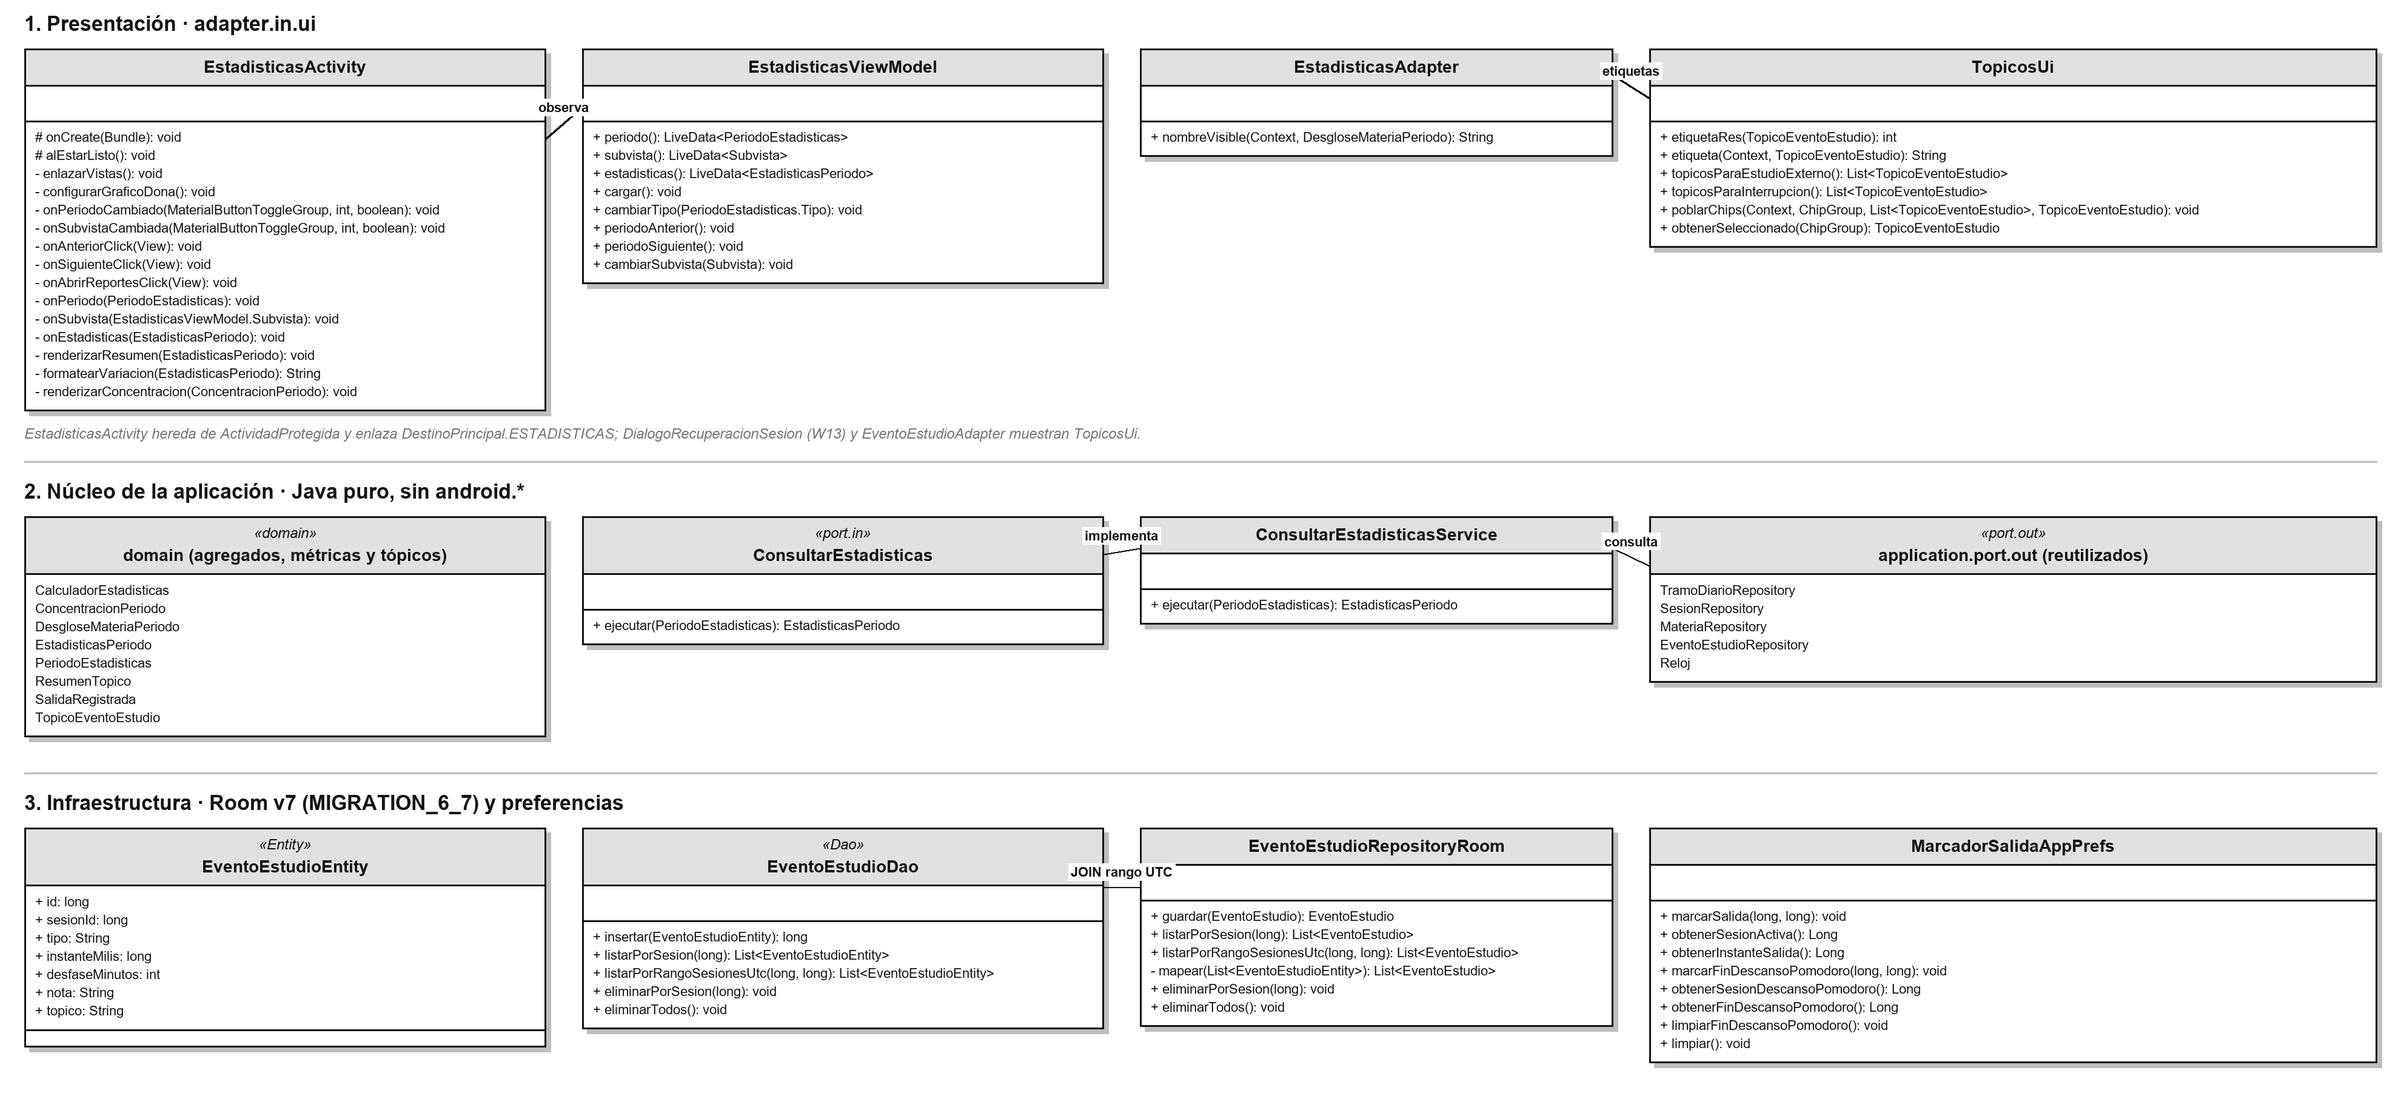
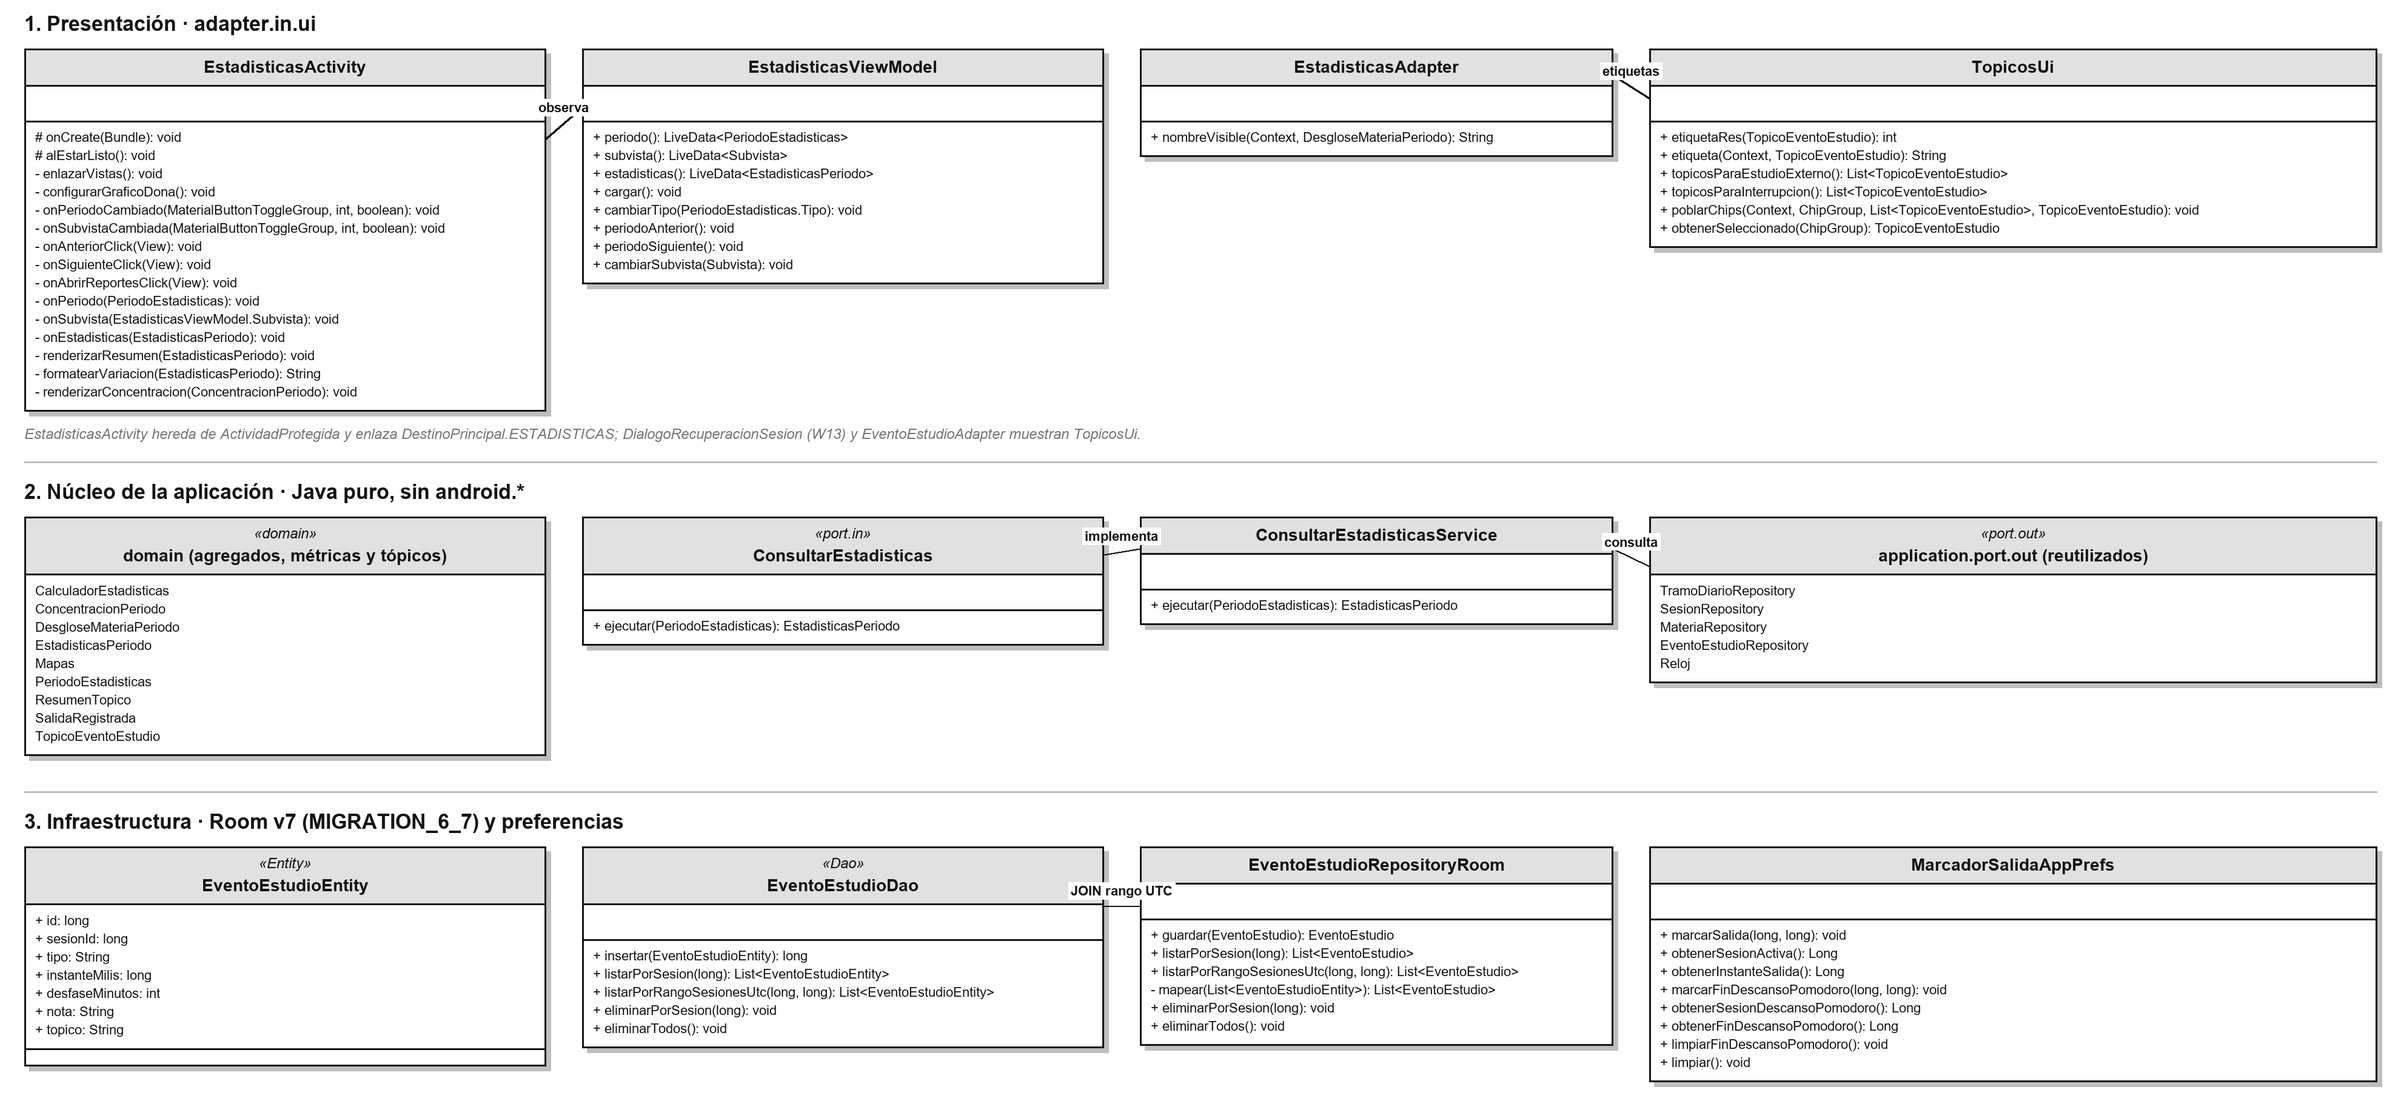
fix(RNF-15): leer mapas de acumuladores sin desempaquetar nulos y evitar listas nulas en estadísticas

Changed region(s): [[0.0, 0.0309, 0.9939, 0.957], [0.4659, 0.0309, 0.9939, 0.247]]

diff --git a/app/src/main/java/io/github/jhoel0521/studyplan/domain/service/CalculadorEstadisticas.java b/app/src/main/java/io/github/jhoel0521/studyplan/domain/service/CalculadorEstadisticas.java
@@ -69,7 +69,7 @@ public final class CalculadorEstadisticas {
                         noRealizadas++;
                         noRealizadasPorMateria.put(
                                 s.materiaId(),
-                                noRealizadasPorMateria.getOrDefault(s.materiaId(), 0) + 1);
+                                Mapas.entero(noRealizadasPorMateria, s.materiaId()) + 1);
                         break;
                     case REPROGRAMADA:
                         reprogramadas++;
@@ -82,7 +82,7 @@ public final class CalculadorEstadisticas {
                 if (s.estado().ocupaHorario() && s.tienePlan()) {
                     planificadosPorMateria.put(
                             s.materiaId(),
-                            planificadosPorMateria.getOrDefault(s.materiaId(), 0)
+                            Mapas.entero(planificadosPorMateria, s.materiaId())
                                     + Math.max(0, s.duracionPlanificadaMinutos()));
                 }
             }
@@ -146,9 +146,9 @@ public final class CalculadorEstadisticas {
 
         List<DesgloseMateriaPeriodo> filas = new ArrayList<>();
         for (Long id : ids) {
-            int minReal = realesPorMateria.getOrDefault(id, 0);
-            int minPlan = planificadosPorMateria.getOrDefault(id, 0);
-            int noReal = noRealizadasPorMateria.getOrDefault(id, 0);
+            int minReal = Mapas.entero(realesPorMateria, id);
+            int minPlan = Mapas.entero(planificadosPorMateria, id);
+            int noReal = Mapas.entero(noRealizadasPorMateria, id);
             if (minReal <= 0 && minPlan <= 0 && noReal <= 0) {
                 continue;
             }
@@ -219,7 +219,7 @@ public final class CalculadorEstadisticas {
                 if (minPlan > 0) {
                     planificadosPorMateria.put(
                             sesion.materiaId(),
-                            planificadosPorMateria.getOrDefault(sesion.materiaId(), 0) + minPlan);
+                            Mapas.entero(planificadosPorMateria, sesion.materiaId()) + minPlan);
                 }
             }
             if (sesion.codigoEstado() == CodigoEstadoSesion.NO_REALIZADA
@@ -227,7 +227,7 @@ public final class CalculadorEstadisticas {
                     && !sesion.fecha().esPosteriorA(fin)) {
                 noRealizadasPorMateria.put(
                         sesion.materiaId(),
-                        noRealizadasPorMateria.getOrDefault(sesion.materiaId(), 0) + 1);
+                        Mapas.entero(noRealizadasPorMateria, sesion.materiaId()) + 1);
             }
         }
     }
@@ -275,7 +275,7 @@ public final class CalculadorEstadisticas {
         }
         List<DesgloseMateriaPeriodo> resultado = new ArrayList<>();
         for (Long id : ids) {
-            int min = minutosPorMateria.getOrDefault(id, 0);
+            int min = Mapas.entero(minutosPorMateria, id);
             if (min <= 0) {
                 continue;
             }
@@ -293,8 +293,8 @@ public final class CalculadorEstadisticas {
                     archivada,
                     min,
                     pct,
-                    planificadosPorMateria.getOrDefault(id, 0),
-                    noRealizadasPorMateria.getOrDefault(id, 0)));
+                    Mapas.entero(planificadosPorMateria, id),
+                    Mapas.entero(noRealizadasPorMateria, id)));
         }
         resultado.sort(Comparator.comparingInt(DesgloseMateriaPeriodo::minutosReales).reversed()
                 .thenComparing(DesgloseMateriaPeriodo::nombreMateria));
@@ -328,9 +328,7 @@ public final class CalculadorEstadisticas {
                 if (s.codigoEstado() == CodigoEstadoSesion.COMPLETADA_TARDIA) {
                     continue;
                 }
-                List<EventoEstudio> eventos = (s.id() != null && eventosPorSesion != null)
-                        ? eventosPorSesion.getOrDefault(s.id(), Collections.emptyList())
-                        : Collections.emptyList();
+                List<EventoEstudio> eventos = eventosDe(eventosPorSesion, s.id());
                 if (eventos.isEmpty()) {
                     continue;
                 }
@@ -351,23 +349,23 @@ public final class CalculadorEstadisticas {
                         analisis.estudioExternoPorTopicoMs().entrySet()) {
                     estudioExternoMs.put(
                             e.getKey(),
-                            estudioExternoMs.getOrDefault(e.getKey(), 0L) + e.getValue());
+                            Mapas.largo(estudioExternoMs, e.getKey()) + e.getValue());
                     estudioExternoConteo.put(
                             e.getKey(),
-                            estudioExternoConteo.getOrDefault(e.getKey(), 0) + 1);
+                            Mapas.entero(estudioExternoConteo, e.getKey()) + 1);
                 }
 
                 for (Map.Entry<TopicoEventoEstudio, Long> e :
                         analisis.interrupcionesPorTopicoMs().entrySet()) {
                     interrupcionesMs.put(
                             e.getKey(),
-                            interrupcionesMs.getOrDefault(e.getKey(), 0L) + e.getValue());
+                            Mapas.largo(interrupcionesMs, e.getKey()) + e.getValue());
                 }
                 for (Map.Entry<TopicoEventoEstudio, Integer> e :
                         analisis.interrupcionesPorTopicoConteo().entrySet()) {
                     interrupcionesConteo.put(
                             e.getKey(),
-                            interrupcionesConteo.getOrDefault(e.getKey(), 0) + e.getValue());
+                            Mapas.entero(interrupcionesConteo, e.getKey()) + e.getValue());
                 }
 
                 if (s.tienePlan() && s.duracionPlanificadaMinutos() > 0) {
@@ -407,8 +405,7 @@ public final class CalculadorEstadisticas {
             totalExternoMs += ms;
         }
         int estudioFueraMin = (int) (totalExternoMs / 60_000L);
-        int sinClasificarMin = (int) (estudioExternoMs.getOrDefault(
-                TopicoEventoEstudio.SIN_CLASIFICAR, 0L) / 60_000L);
+        int sinClasificarMin = (int) (Mapas.largo(estudioExternoMs, TopicoEventoEstudio.SIN_CLASIFICAR) / 60_000L);
 
         List<ResumenTopico> listaExterno = convertirTopicos(estudioExternoMs, estudioExternoConteo);
         List<ResumenTopico> listaInterrupciones =
@@ -432,7 +429,7 @@ public final class CalculadorEstadisticas {
             Map<TopicoEventoEstudio, Integer> conteos) {
         List<ResumenTopico> lista = new ArrayList<>();
         for (Map.Entry<TopicoEventoEstudio, Long> e : duracionesMs.entrySet()) {
-            int cant = conteos.getOrDefault(e.getKey(), 0);
+            int cant = Mapas.entero(conteos, e.getKey());
             int min = (int) (e.getValue() / 60_000L);
             if (cant > 0 || min > 0) {
                 lista.add(new ResumenTopico(e.getKey(), cant, min));
@@ -442,5 +439,14 @@ public final class CalculadorEstadisticas {
                 .thenComparingInt(ResumenTopico::cantidad).reversed()
                 .thenComparing(r -> r.topico().name()));
         return lista;
+    }
+
+    /** Eventos de la sesión; lista vacía si no hay mapa, no hay id o la sesión no tiene eventos. */
+    private static List<EventoEstudio> eventosDe(Map<Long, List<EventoEstudio>> eventosPorSesion, Long sesionId) {
+        if (eventosPorSesion == null || sesionId == null) {
+            return Collections.emptyList();
+        }
+        List<EventoEstudio> eventos = eventosPorSesion.get(sesionId);
+        return eventos == null ? Collections.emptyList() : eventos;
     }
 }

diff --git a/app/src/main/java/io/github/jhoel0521/studyplan/domain/service/Mapas.java b/app/src/main/java/io/github/jhoel0521/studyplan/domain/service/Mapas.java
@@ -1,0 +1,29 @@
+package io.github.jhoel0521.studyplan.domain.service;
+
+import java.util.Map;
+
+/**
+ * Lecturas de mapas de acumuladores sin desempaquetar un valor que podría ser nulo (RNF-15). Los mapas de estadísticas
+ * (por materia, por tópico) guardan {@code Integer} y {@code Long}; {@link Map#getOrDefault} devuelve el objeto y
+ * desempaquetarlo directamente avisa de un posible {@code NullPointerException} aunque nunca se guarden nulos.
+ *
+ * <p>Usado por {@link CalculadorEstadisticas} (HU-29 a HU-32 y HU-45), {@link CalculadorTiempoReal} (HU-39) y por
+ * los servicios que acumulan minutos por materia (HU-07, HU-26 y HU-27).
+ */
+public final class Mapas {
+
+    private Mapas() {
+    }
+
+    /** Valor entero asociado a la clave, o 0 si no hay entrada o el valor es nulo. */
+    public static <K> int entero(Map<K, Integer> mapa, K clave) {
+        Integer valor = mapa.get(clave);
+        return valor == null ? 0 : valor;
+    }
+
+    /** Valor largo asociado a la clave, o 0 si no hay entrada o el valor es nulo. */
+    public static <K> long largo(Map<K, Long> mapa, K clave) {
+        Long valor = mapa.get(clave);
+        return valor == null ? 0L : valor;
+    }
+}

diff --git a/app/src/main/java/io/github/jhoel0521/studyplan/domain/service/CalculadorTiempoReal.java b/app/src/main/java/io/github/jhoel0521/studyplan/domain/service/CalculadorTiempoReal.java
@@ -283,7 +283,7 @@ public final class CalculadorTiempoReal {
                         long dur = t - salidaAbiertaMs;
                         TopicoEventoEstudio top = e.topico().orElse(TopicoEventoEstudio.SIN_CLASIFICAR);
                         estudioExternoPorTopicoMs.put(
-                                top, estudioExternoPorTopicoMs.getOrDefault(top, 0L) + dur);
+                                top, Mapas.largo(estudioExternoPorTopicoMs, top) + dur);
                         huboEstudioAppCerradaEnSalida = true;
                     }
                     break;
@@ -363,8 +363,8 @@ public final class CalculadorTiempoReal {
             Map<TopicoEventoEstudio, Integer> conteos,
             TopicoEventoEstudio topico,
             long duracionMs) {
-        duraciones.put(topico, duraciones.getOrDefault(topico, 0L) + duracionMs);
-        conteos.put(topico, conteos.getOrDefault(topico, 0) + 1);
+        duraciones.put(topico, Mapas.largo(duraciones, topico) + duracionMs);
+        conteos.put(topico, Mapas.entero(conteos, topico) + 1);
     }
 
     /** Resultado agregado del análisis cronológico de eventos de una sesión ({@code HU-45}). */

diff --git a/app/src/main/java/io/github/jhoel0521/studyplan/application/service/metas/ConsultarProgresoMetasService.java b/app/src/main/java/io/github/jhoel0521/studyplan/application/service/metas/ConsultarProgresoMetasService.java
@@ -22,6 +22,7 @@ import io.github.jhoel0521.studyplan.domain.entity.MetaSemanal;
 import io.github.jhoel0521.studyplan.domain.entity.Perfil;
 import io.github.jhoel0521.studyplan.domain.readmodel.ProgresoMeta;
 import io.github.jhoel0521.studyplan.domain.result.Resultado;
+import io.github.jhoel0521.studyplan.domain.service.Mapas;
 
 /**
  * Implementa {@link ConsultarProgresoMetas}: calcula progreso de la semana actual (creando el
@@ -107,7 +108,7 @@ public final class ConsultarProgresoMetasService implements ConsultarProgresoMet
                 Map<Long, Integer> minutosPorMateria = tramos.sumarPorMateriaEnRango(cursor, finSemana);
                 for (MetaSemanal mm : metasMaterias) {
                     long mId = mm.materiaId();
-                    int minMateria = minutosPorMateria.getOrDefault(mId, 0);
+                    int minMateria = Mapas.entero(minutosPorMateria, mId);
                     String nombre = nombresMateria.getOrDefault(mId, "");
                     resultado.add(CalculadorProgresoMetas.calcularProgreso(
                             cursor, mId, nombre, minMateria, mm.horasObjetivo(), false));

diff --git a/app/src/test/java/io/github/jhoel0521/studyplan/domain/service/MapasTest.java b/app/src/test/java/io/github/jhoel0521/studyplan/domain/service/MapasTest.java
@@ -1,0 +1,36 @@
+package io.github.jhoel0521.studyplan.domain.service;
+
+import static org.junit.Assert.assertEquals;
+
+import java.util.HashMap;
+import java.util.Map;
+
+import org.junit.Test;
+
+/**
+ * Pruebas de las lecturas de mapas que no desempaquetan nulos (RNF-15; usadas por HU-29 a HU-32, HU-39 y HU-45).
+ */
+public class MapasTest {
+
+    @Test
+    public void enteroDevuelveElValorOCeroSiFaltaOEsNulo() {
+        Map<String, Integer> mapa = new HashMap<>();
+        mapa.put("a", 7);
+        mapa.put("nulo", null);
+
+        assertEquals(7, Mapas.entero(mapa, "a"));
+        assertEquals(0, Mapas.entero(mapa, "falta"));
+        assertEquals(0, Mapas.entero(mapa, "nulo"));
+    }
+
+    @Test
+    public void largoDevuelveElValorOCeroSiFaltaOEsNulo() {
+        Map<Long, Long> mapa = new HashMap<>();
+        mapa.put(1L, 90_000L);
+        mapa.put(2L, null);
+
+        assertEquals(90_000L, Mapas.largo(mapa, 1L));
+        assertEquals(0L, Mapas.largo(mapa, 3L));
+        assertEquals(0L, Mapas.largo(mapa, 2L));
+    }
+}

diff --git a/app/src/main/java/io/github/jhoel0521/studyplan/application/service/materias/ListarMateriasService.java b/app/src/main/java/io/github/jhoel0521/studyplan/application/service/materias/ListarMateriasService.java
@@ -22,6 +22,7 @@ import io.github.jhoel0521.studyplan.domain.entity.MetaSemanal;
 import io.github.jhoel0521.studyplan.domain.readmodel.ProgresoMeta;
 import io.github.jhoel0521.studyplan.domain.result.Resultado;
 import io.github.jhoel0521.studyplan.domain.readmodel.ResumenMateria;
+import io.github.jhoel0521.studyplan.domain.service.Mapas;
 
 /**
  * Implementa {@link ListarMaterias}: orden alfabético en español, dejando al final la materia
@@ -103,7 +104,7 @@ public final class ListarMateriasService implements ListarMaterias {
         if (objetivo == null) {
             return null;
         }
-        int minutos = minutosSemanaPorMateria.getOrDefault(materia.id(), 0);
+        int minutos = Mapas.entero(minutosSemanaPorMateria, materia.id());
         return CalculadorProgresoMetas.calcularProgreso(
                 lunes, materia.id(), materia.nombre(), minutos, objetivo, false);
     }

diff --git a/docs/build/diagramas_clases.py b/docs/build/diagramas_clases.py
@@ -122,7 +122,7 @@ PERSISTENCIA_METAS = ["MetaSemanalDao", "MetaSemanalEntity", "MetaSemanalReposit
 PRESENTACION_ESTADISTICAS = ["EstadisticasActivity", "EstadisticasAdapter", "EstadisticasViewModel", "TopicosUi"]
 ENTRADA_ESTADISTICAS = ["ConsultarEstadisticas"]
 SERVICIOS_ESTADISTICAS = ["ConsultarEstadisticasService"]
-DOMINIO_ESTADISTICAS = ["CalculadorEstadisticas", "ConcentracionPeriodo", "DesgloseMateriaPeriodo", "EstadisticasPeriodo", "PeriodoEstadisticas", "ResumenTopico", "SalidaRegistrada", "TopicoEventoEstudio"]
+DOMINIO_ESTADISTICAS = ["CalculadorEstadisticas", "ConcentracionPeriodo", "DesgloseMateriaPeriodo", "EstadisticasPeriodo", "Mapas", "PeriodoEstadisticas", "ResumenTopico", "SalidaRegistrada", "TopicoEventoEstudio"]
 
 PRESENTACION_REPORTES = ["ReportesActivity", "ReportesAdapter", "ReportesViewModel"]
 ENTRADA_REPORTES = ["GenerarReporteEstudio"]

diff --git a/docs/build/comparar_pruebas.py b/docs/build/comparar_pruebas.py
@@ -19,7 +19,7 @@ RAIZ = Path(__file__).resolve().parents[2]
 RESULTADOS = RAIZ / "app" / "build" / "test-results" / "testDebugUnitTest"
 LINEA_BASE = Path(__file__).resolve().parent / "linea_base_pruebas.txt"
 # Clases de prueba que el propio change añade (no existen en la línea base y no cuentan como diferencia).
-AGREGADAS_POR_EL_CHANGE = {"EstructuraPaquetesTest"}
+AGREGADAS_POR_EL_CHANGE = {"EstructuraPaquetesTest", "MapasTest"}
 
 
 def pruebas_actuales():

diff --git a/docs/auditoria-ia/bitacora.md b/docs/auditoria-ia/bitacora.md
@@ -483,5 +483,7 @@ Triaje: **corregir** el comentario suelto, la conversión redundante, el `Locale
 
 **Citas y referencias para el autor (tarea 6.3).** La IA no las corrigió porque las referencias las decide el autor y no se inventan. `revisar.py` informa tres inconsistencias: (1) la cita «ISO (2023)» de `03-requisitos-y-analisis-del-sistema.md` (línea 508) no tiene su entrada en `90-referencias.md`; (2) la referencia «Android (s.f.)» (`90-referencias.md`, línea 7) no se cita en ningún capítulo; (3) la referencia «Google (s.f.)» (`90-referencias.md`, línea 19) no se cita en ningún capítulo. Cada una se resuelve añadiendo la entrada que falta o citando (o quitando) la referencia sobrante, y marcándola para verificación manual.
 
+**Corrección de la tarea 5.7 (2026-11-21).** La IA dio por resueltos los avisos del IDE con comprobaciones aproximadas y eso era incorrecto: el Product Owner mostró 18 avisos reales del inspector de Android Studio que esas comprobaciones no detectaban (16 desempaquetados de `getOrDefault(..., 0)` en `CalculadorEstadisticas` y dos invocaciones sobre posibles nulos: `eventosPorSesion.getOrDefault` e `isEmpty`). Se corrigieron con la clase `Mapas` (`entero` y `largo`, sin desempaquetar un nulo) y con un método privado `eventosDe` que devuelve una lista vacía si falta el mapa, el id o la entrada; el mismo patrón se aplicó a los otros usos numéricos de `getOrDefault` (`CalculadorTiempoReal`, `ListarMateriasService` y `ConsultarProgresoMetasService`), y se añadió `MapasTest`. Lección: una línea base aproximada no sustituye al inspector del IDE; la confirmación con el XML de «Inspect Code» pasa de opcional a recomendada.
+
 **Errores o riesgos registrados en esta sesión:** (1) El plan decía «363 pruebas»: la cifra era anterior a las pruebas de la gracia de salida; la línea base real es 372. (2) La IA afirmó en el primer diseño que `domain` y el resto de capas se podían dividir sin tocar visibilidad: solo era cierto para `domain`; lo detectó la revisión EGM. (3) La IA se detuvo a pedir la aprobación de RN-23 y RN-24 y la de un paso técnico cuando el Product Owner ya había pedido no frenarse; se corrigió y se siguió. (4) Los primeros intentos del script de movimiento fallaron por errores de la IA (expresión de sangría, escapes de expresiones regulares, rutas escritas como texto); el ensayo en una copia los detectó antes de tocar el repositorio.
 
